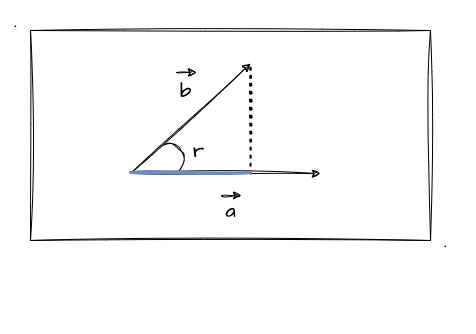
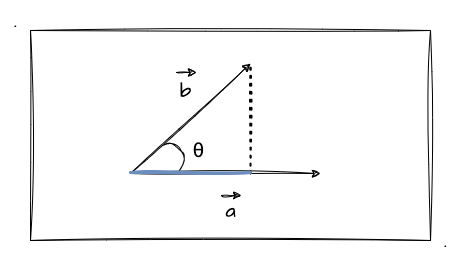
feat: 矢量积

diff --git a/docs/content/四、WebGL二维动画/2. 图形学的数学基础.md b/docs/content/四、WebGL二维动画/2. 图形学的数学基础.md
@@ -62,7 +62,7 @@ n * vec4(x, y, z, w) = vec4(nx, ny, nz, nw)
 
 在讲数量积之前，先前置一个知识点：数量积和矢量积（下问会讲到）的根本区别是**数量积的结果是普通的标量；矢量积的结果仍然是矢量**。哈哈哈，其实通过他们的命名就能猜到了是吧？
 
-数量积也叫**点积**，是**两矢量相乘后得到一个标量结果的乘法**。那他们的 [等式关系](https://zh.wikipedia.org/wiki/%E5%90%91%E9%87%8F) 为（推荐大家戳维基百科看公式哈）：
+数量积也叫 [点积](https://zh.wikipedia.org/wiki/%E7%82%B9%E7%A7%AF) ，是**两矢量相乘后得到一个标量结果的乘法**。那他们的 [等式关系](https://zh.wikipedia.org/wiki/%E5%90%91%E9%87%8F) 为（推荐大家戳维基百科看公式）：
 
 ![2.4](../../public/images/fourth/2.4.png)
 
@@ -74,7 +74,19 @@ n * vec4(x, y, z, w) = vec4(nx, ny, nz, nw)
 
 ![2.2](../../public/images/fourth/2.2.png)
 
-如图所示，`矢量a` 和 `矢量b` 的夹角为 `r`。根据数量积公式可以推出，其实 `矢量b的长度 * cos(r)` 这个的值就等于图中标**蓝色线**的长度。因为 `cos` 是**邻边比斜边**，刚好乘上 `矢量b的长度` 可以抵消分母，最后剩余**邻边的长度**。所以基于此我们可以推出上述数量积公式即为求：
+如图所示，`矢量a` 和 `矢量b` 的夹角为 `θ`。根据数量积公式可以推出：`矢量b的长度 * cos(θ)` 这个的值就等于图中标**蓝色线**的长度。因为 `cos` 是**邻边比斜边**，刚好乘上 `矢量b的长度` 可以抵消分母，最后剩余**邻边的长度**。
+
+所以基于此我们可以推出上述数量积公式即为求：
 - `矢量b` 在 `矢量a` 上的 **投影长度** 与 **`矢量a`长度** 的 **乘积**（即蓝色线段长度 * `矢量a`的长度）
 
+我们可以推导出，如果 `矢量b` **垂直于** `矢量a`，那么结果就是 `0`！
+
 ### 矢量积（叉积）
+
+矢量积又称 [叉积](https://zh.wikipedia.org/wiki/%E5%8F%89%E7%A7%AF) ，是向量跟向量之间的乘积，但它的**结果依然是矢量**（前面也有提到）。并且两个矢量的乘积跟这两个矢量所在的平面**垂直**。
+
+![2.5](../../public/images/fourth/2.5.png)
+
+```js
+
+```

diff --git a/docs/content/一、前言/0. 目录.md b/docs/content/一、前言/0. 目录.md
@@ -123,6 +123,10 @@
 
       - [认识矢量](/content/四、WebGL二维动画/2.%20%E5%9B%BE%E5%BD%A2%E5%AD%A6%E7%9A%84%E6%95%B0%E5%AD%A6%E5%9F%BA%E7%A1%80.html#认识矢量)
 
+      - [1. 矢量加减法](/content/四、WebGL二维动画/2.%20%E5%9B%BE%E5%BD%A2%E5%AD%A6%E7%9A%84%E6%95%B0%E5%AD%A6%E5%9F%BA%E7%A1%80.html#1.-矢量加减法)
+
+      - [2. 矢量乘法](/content/四、WebGL二维动画/2.%20%E5%9B%BE%E5%BD%A2%E5%AD%A6%E7%9A%84%E6%95%B0%E5%AD%A6%E5%9F%BA%E7%A1%80.html#2.-矢量乘法)
+
    - [动画](/content/四、WebGL二维动画/%E5%8A%A8%E7%94%BB)
 
       - [什么是动画？](/content/四、WebGL二维动画/%E5%8A%A8%E7%94%BB.html#什么是动画)
